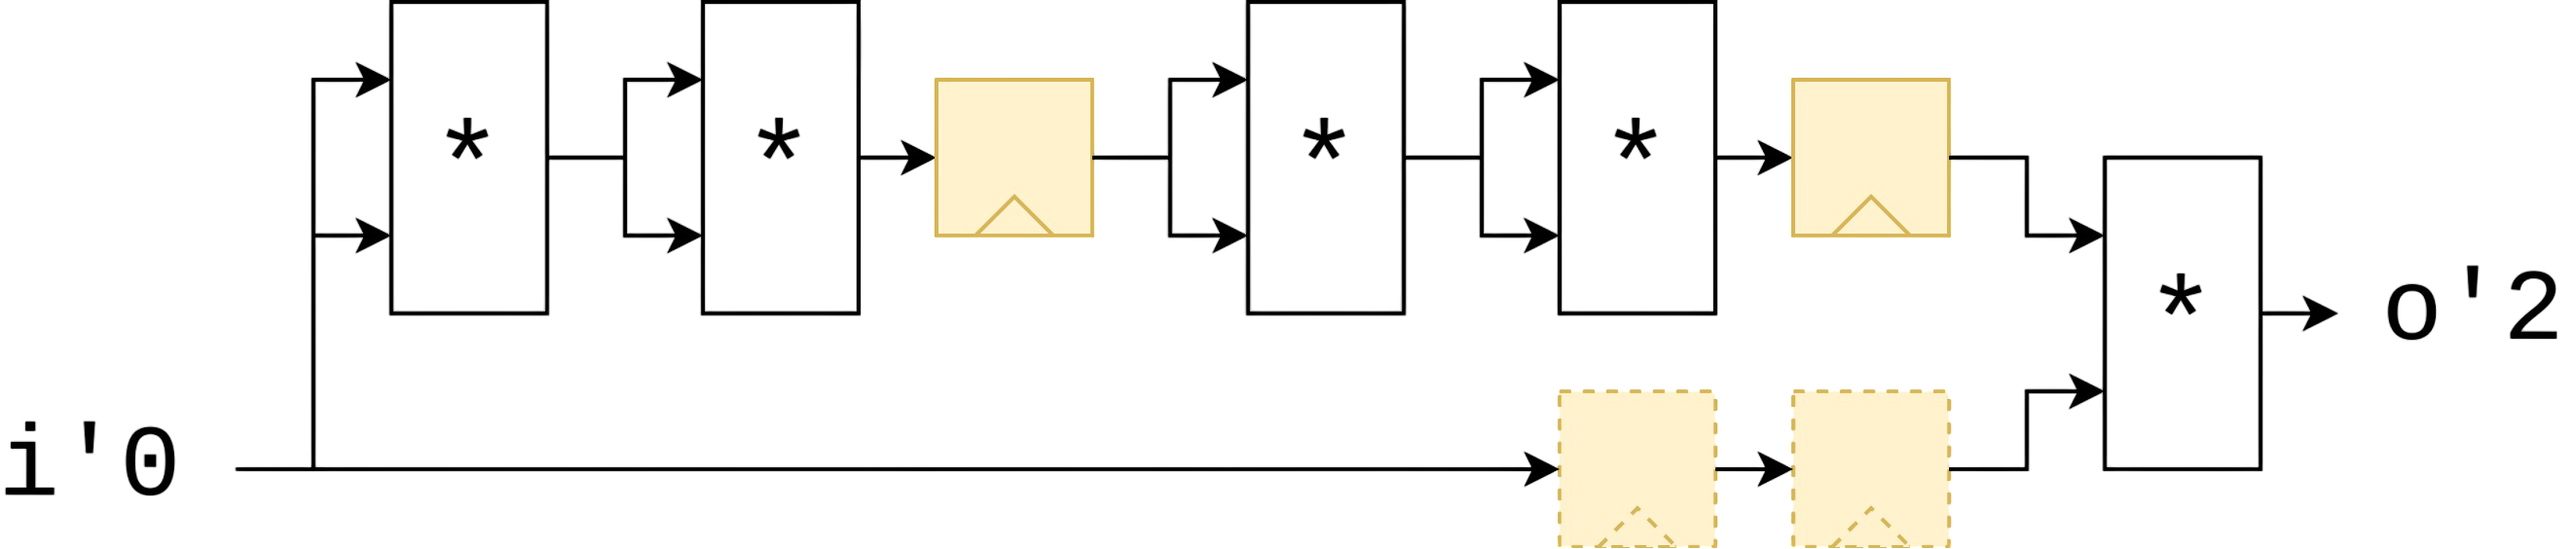
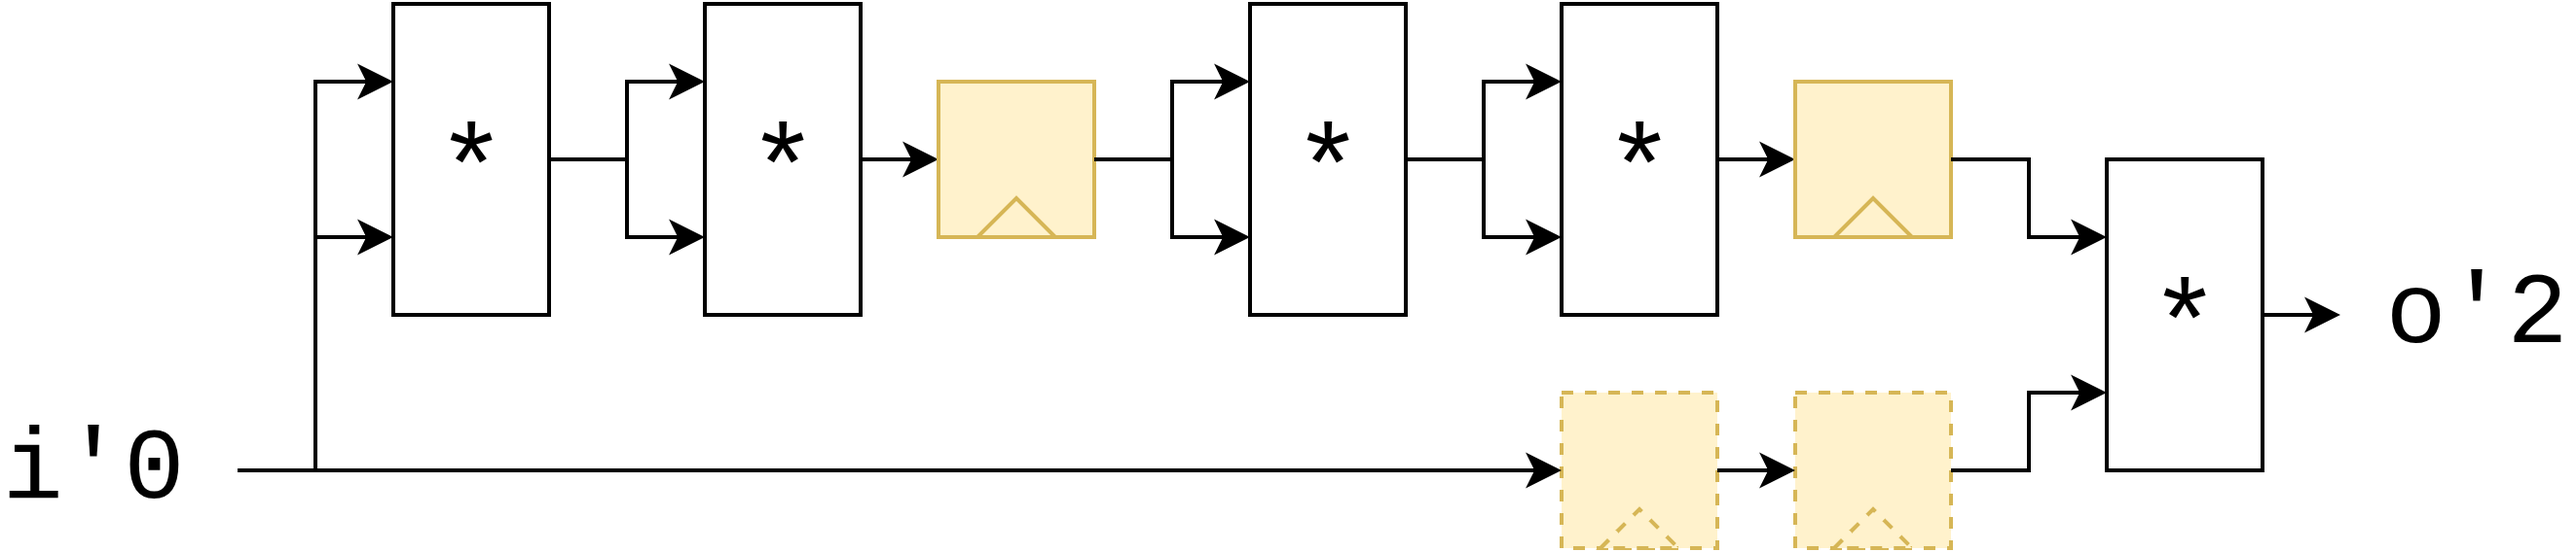
Fix the latency registers picture

diff --git a/templates/examples.html b/templates/examples.html
@@ -19,7 +19,7 @@
         <br>This is accomplished by adding a 'latency' field to every path.
         
 
-        <img src="{{ get_url(path='images/insertRegisters.png') }}" 
+        <img src="{{ get_url(path='images/latencyInsertRegisters.png') }}" 
         width="500" 
         height="100" 
         alt="Logo"

diff --git a/book/src/philosophy/main-features-through-examples.md b/book/src/philosophy/main-features-through-examples.md
@@ -10,7 +10,7 @@ module pow17 {
             o   = i16 * i
 }
 ```
-![Registers can be inserted](insertRegisters.png)
+![Registers can be inserted](latencyInsertRegisters.png)
 
 ### FIZZ-BUZZ Lookup Table using Generative Code
 ```Verilog
